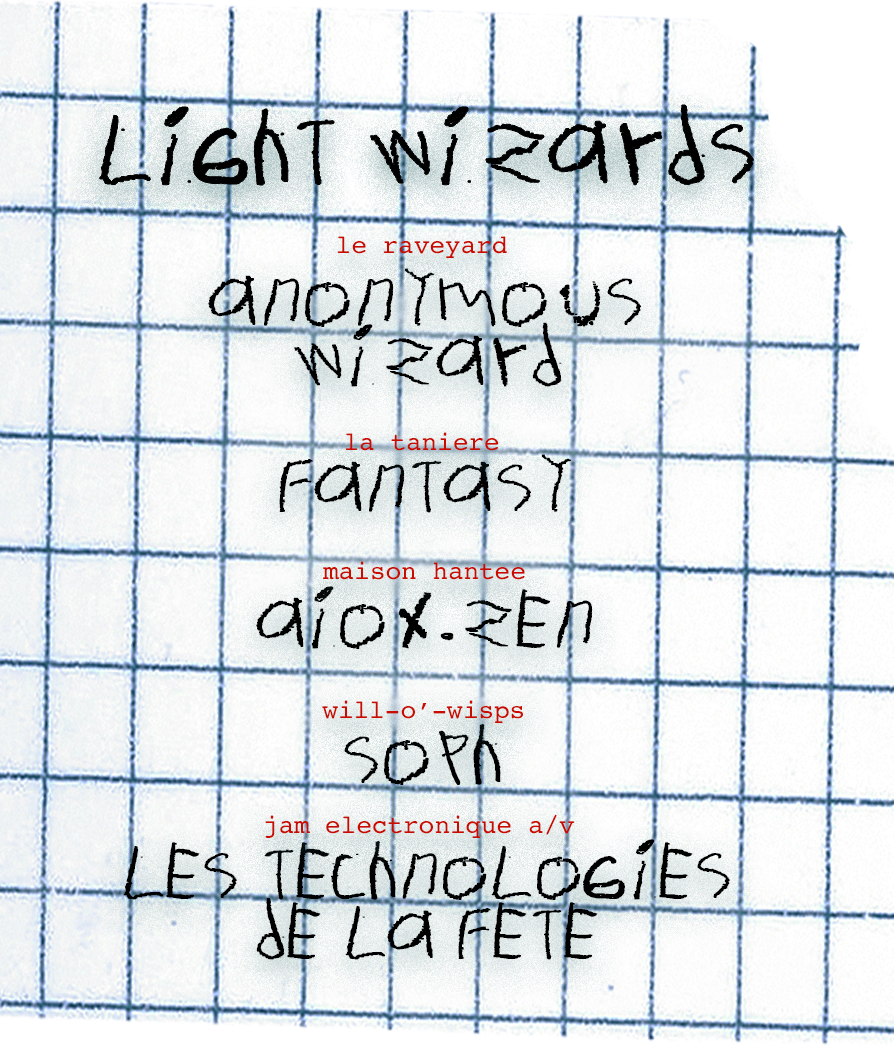
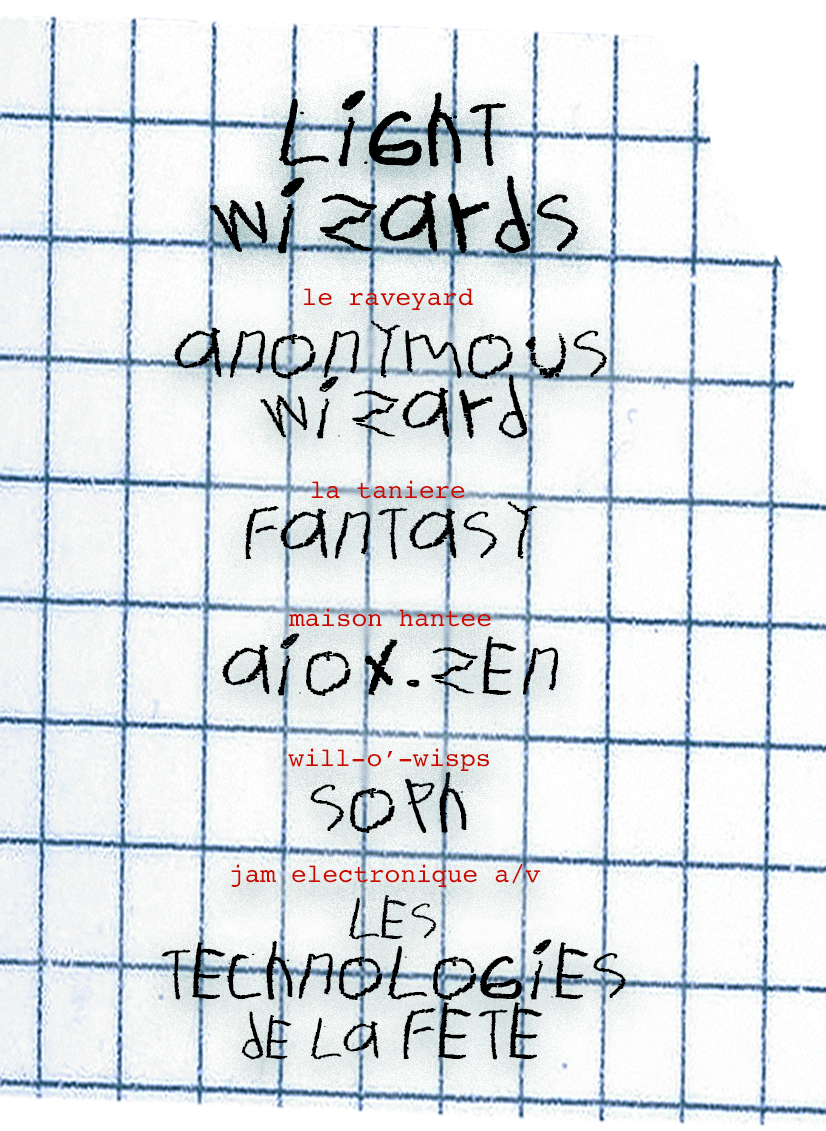
minor fixes mobile version

Changed region(s): [[0.0, 0.0, 1.0, 0.9762], [0.0, 0.9152, 0.2119, 0.9762], [0.2421, 0.9457, 0.2724, 0.9762]]

diff --git a/navigation-en.html b/navigation-en.html
@@ -4,7 +4,7 @@
 
 <head>
   <meta charset="utf-8">
-  <meta name="viewport" content="width=device-width,user-scalable=no">
+  <meta name="viewport" content="width=device-width" />
   <title>𝚋𝚊𝚗𝚜𝚑𝚎𝚎</title>
   <meta name="description" content="***">
   <meta name="author" content="s_m">
@@ -194,27 +194,27 @@
     <div class="bg-overlay"></div>
     <!-- navigation menu -->
     <div class="iconContainer" id="box-2">
-      <a href="#" class="iconBtn" id="icon-1"><img class="iconImg" src="assets/image/glass.png"
+      <a href="javascript:;" class="iconBtn" id="icon-1"><img class="iconImg" src="assets/image/glass.png"
           alt="magnifying glass"><img src="assets/image/shadow.png" class="iconShadow"></a>
       <span class="iconCaption">description</span>
     </div>
     <div class="iconContainer" id="box-1">
-      <a href="#" class="iconBtn" id="icon-2"><img class="iconImg" src="assets/image/chain.png" alt="metal chain"><img
+      <a href="javascript:;" class="iconBtn" id="icon-2"><img class="iconImg" src="assets/image/chain.png" alt="metal chain"><img
           src="assets/image/shadow.png" class="iconShadow"></a>
       <span class="iconCaption">tickets</span>
     </div>
     <div class="iconContainer" id="box-3">
-      <a href="#" class="iconBtn" id="icon-3"><img class="iconImg" src="assets/image/hand.png" alt="bloody hand"><img
+      <a href="javascript:;" class="iconBtn" id="icon-3"><img class="iconImg" src="assets/image/hand.png" alt="bloody hand"><img
           src="assets/image/shadow.png" class="iconShadow"></a>
       <span class="iconCaption">contact</span>
     </div>
     <div class="iconContainer" id="box-4">
-      <a href="#" class="iconBtn" id="icon-4"><img class="iconImg" src="assets/image/key.png" alt="key"><img
+      <a href="javascript:;" class="iconBtn" id="icon-4"><img class="iconImg" src="assets/image/key.png" alt="key"><img
           src="assets/image/shadow.png" class="iconShadow"></a>
       <span class="iconCaption">info/rules</span>
     </div>
     <div class="iconContainer" id="box-5">
-      <a href="#" class="iconBtn" id="icon-5"><img class="iconImg" src="assets/image/paper.png"
+      <a href="javascript:;" class="iconBtn" id="icon-5"><img class="iconImg" src="assets/image/paper.png"
           alt="piece of paper"><img src="assets/image/shadow.png" class="iconShadow"></a>
       <span class="iconCaption">line-up</span>
     </div>

diff --git a/navigation-fr.html b/navigation-fr.html
@@ -201,27 +201,27 @@
     <div class="bg-overlay"></div>
     <!-- navigation menu -->
     <div class="iconContainer" id="box-2">
-      <a href="#" class="iconBtn" id="icon-1"><img class="iconImg" src="assets/image/glass.png"
+      <a href="javascript:;" class="iconBtn" id="icon-1"><img class="iconImg" src="assets/image/glass.png"
           alt="magnifying glass"><img src="assets/image/shadow.png" class="iconShadow"></a>
       <span class="iconCaption">description</span>
     </div>
     <div class="iconContainer" id="box-1">
-      <a href="#" class="iconBtn" id="icon-2"><img class="iconImg" src="assets/image/chain.png" alt="metal chain"><img
+      <a href="javascript:;" class="iconBtn" id="icon-2"><img class="iconImg" src="assets/image/chain.png" alt="metal chain"><img
           src="assets/image/shadow.png" class="iconShadow"></a>
       <span class="iconCaption">billets</span>
     </div>
     <div class="iconContainer" id="box-3">
-      <a href="#" class="iconBtn" id="icon-3"><img class="iconImg" src="assets/image/hand.png" alt="bloody hand"><img
+      <a href="javascript:;" class="iconBtn" id="icon-3"><img class="iconImg" src="assets/image/hand.png" alt="bloody hand"><img
           src="assets/image/shadow.png" class="iconShadow"></a>
       <span class="iconCaption">contact</span>
     </div>
     <div class="iconContainer" id="box-4">
-      <a href="#" class="iconBtn" id="icon-4"><img class="iconImg" src="assets/image/key.png" alt="key"><img
+      <a href="javascript:;" class="iconBtn" id="icon-4"><img class="iconImg" src="assets/image/key.png" alt="key"><img
           src="assets/image/shadow.png" class="iconShadow"></a>
       <span class="iconCaption">info/règles</span>
     </div>
     <div class="iconContainer" id="box-5">
-      <a href="#" class="iconBtn" id="icon-5"><img class="iconImg" src="assets/image/paper.png"
+      <a href="javascript:;" class="iconBtn" id="icon-5"><img class="iconImg" src="assets/image/paper.png"
           alt="piece of paper"><img src="assets/image/shadow.png" class="iconShadow"></a>
       <span class="iconCaption">line-up</span>
     </div>

diff --git a/js/script.js b/js/script.js
@@ -6,7 +6,7 @@ $(document).ready(function () {
         iconAudio[i].src = "assets/sounds/sound_" + i + ".mp3";
     }
     $(".index01").click(function () {
-        window.location.href = "banshee_/navigation-en.html";
+        window.location.href = "navigation-en.html";
     });
     $(".bg-overlay").click(function () {
         $(".bg-overlay").css("display", "none");

diff --git a/style.css b/style.css
@@ -45,8 +45,9 @@ body {
 }
 
 #landing-title {
+  position: absolute;
   width: 90%;
-  bottom: 0;
+  bottom: 0px;
 }
 
 /* *** NAVIGATION PAGE: DESKTOP LAYOUT *** */
